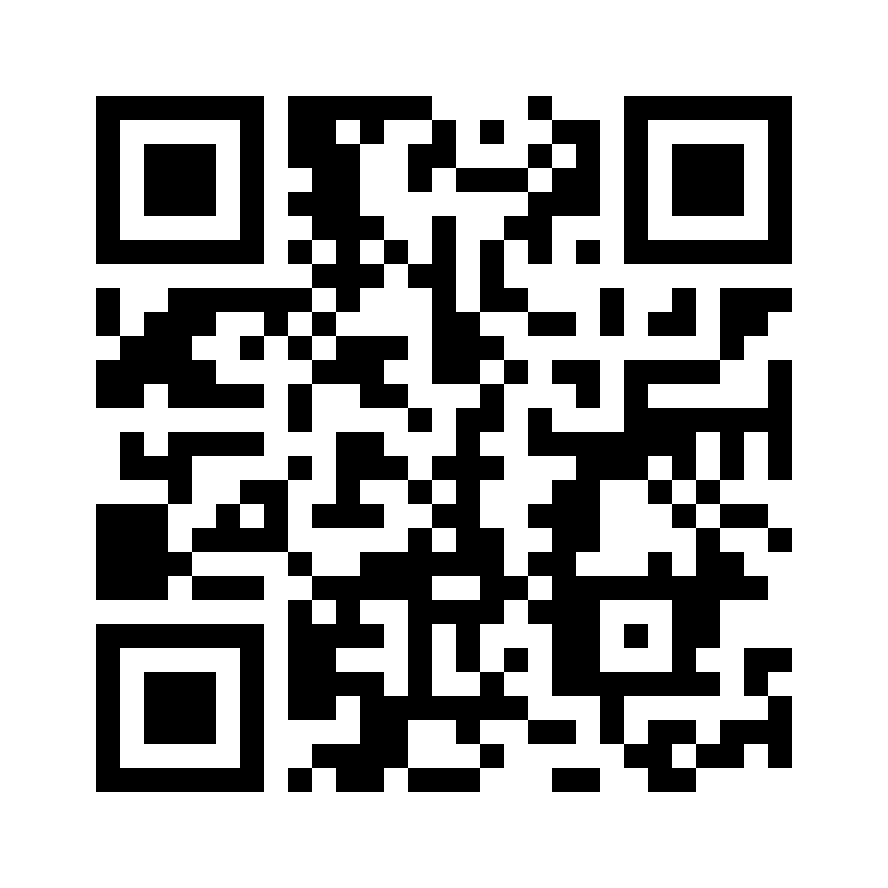
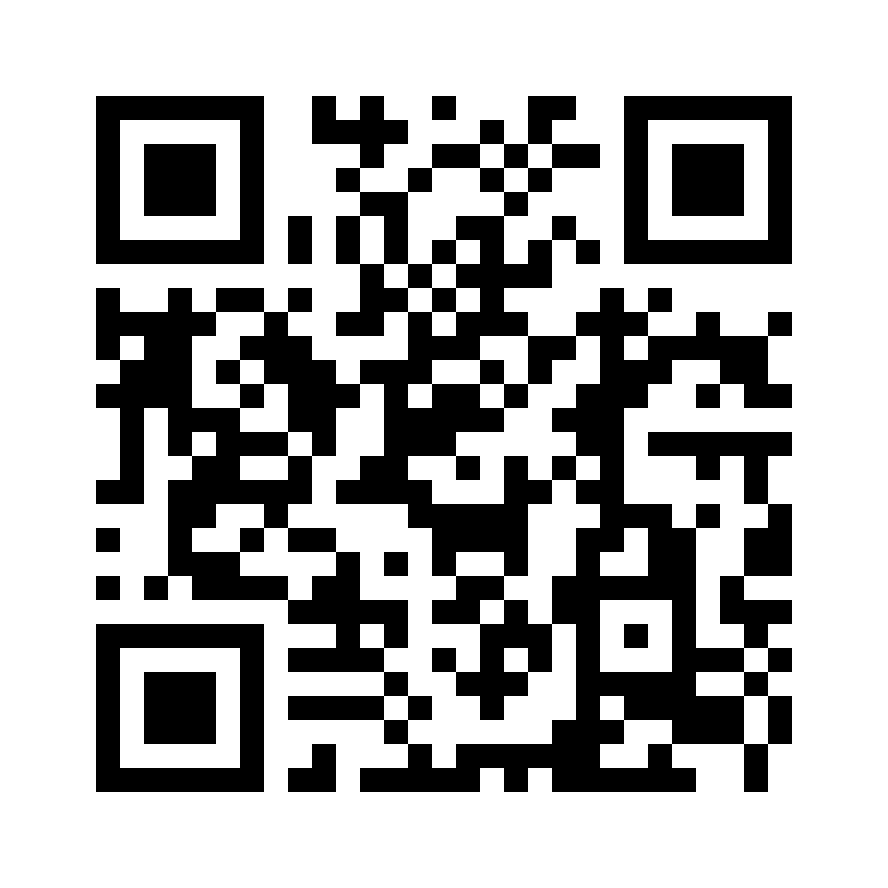
Move the public site to tideflow.ligangyan.com
- SITE_ADDRESS is tideflow.ligangyan.com. The old coastalaction address
  goes in REDIRECT_FROM, and Caddy sends it on to the new one with the
  same path, so existing links and QR codes keep working.
- Without REDIRECT_FROM, Caddy answers only a name that never resolves,
  over plain HTTP, so local and domain-less setups are unchanged.
- The deploy health check uses the first address if there are several.
- The QR code and README point at the new address, and the README says
  how to move domains.

Changed region(s): [[0.0912, 0.0912, 0.9122, 0.9122], [0.2128, 0.3041, 0.2432, 0.3649]]

diff --git a/tidecount/README.md b/tidecount/README.md
@@ -29,9 +29,9 @@ Then open http://localhost:8000. The first run installs dependencies and downloa
 
 ## On a phone
 
-Open `/start`, for example https://coastalaction.ligangyan.com/start. It says what Tideflow is and has one tap into a sample video, a sample report or an upload.
+Open the home page, for example https://tideflow.ligangyan.com/. It says what Tideflow is, with one tap into a sample video and a way to join as a volunteer. The workspace people sign in to is at `/workspace`. Old `/start` links still land on the home page.
 
-On a computer, **Open on phone** in the sidebar shows a large QR code for that page, so a room can scan it from the screen. For slides and print, `pnpm qr` in `web/` writes `demo/qr/start.png` and `start.svg`. Pass another address to change where they lead: `pnpm qr https://example.com/start`.
+For slides and print, `pnpm qr` in `web/` writes `demo/qr/start.png` and `start.svg`, which open the home page. Pass another address to change where they lead: `pnpm qr https://example.com/`.
 
 A phone has to reach the site, so scan from the public address, not `localhost`.
 
@@ -255,7 +255,7 @@ echo "SITE_ADDRESS=your.domain" > .env
 docker compose up -d
 ```
 
-Point the domain's A record at the machine first, and open ports 80 and 443. If you use Cloudflare, set the record to **DNS only**. Caddy then gets a certificate and serves HTTPS by itself, and uploads have no size limit. Leave out `.env` and the site is plain HTTP on port 80.
+Point the domain's A record at the machine first, and open ports 80 and 443. If you use Cloudflare, set the record to **DNS only**. Caddy then gets a certificate and serves HTTPS by itself, and uploads have no size limit. Leave out `.env` and the site is plain HTTP on port 80. To move to a new domain, set `SITE_ADDRESS` to it and put the old one in `REDIRECT_FROM`; Caddy then sends visitors from the old address on to the new one, with the same path.
 
 The first start builds the image and downloads the model weights, about 4.2 GB, so it takes a while. Later starts skip both. Then open the site and import a video in **Fish Counter**, as you would locally. Everything is saved in `deploy/data/`, separate from the `tidecount/data/` that `start.sh` uses.
 
